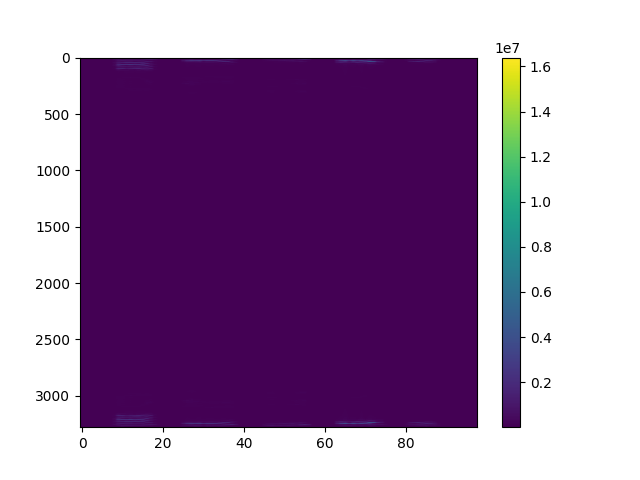
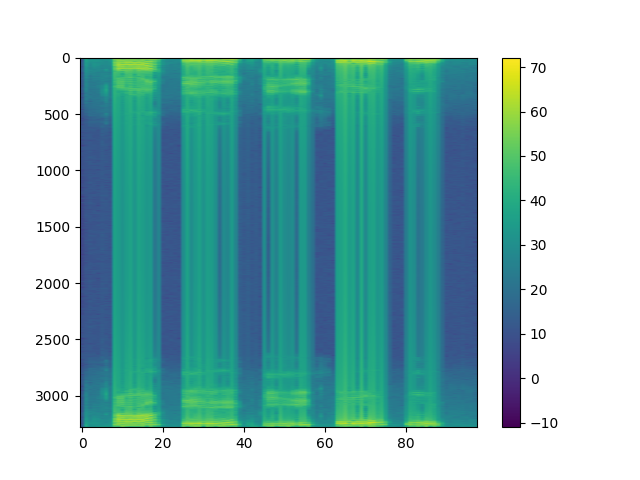
Add files via upload

diff --git a/Lab 4/ex6.py b/Lab 4/ex6.py
@@ -23,7 +23,7 @@ for g in grupuri:
 FFT_matr.pop(-1)
 FFT_matr.pop(0)
 print(np.array(FFT_matr).T.shape)
-plt.imshow(np.array(FFT_matr).T, aspect='auto')
+plt.imshow(10 * np.log10(np.array(FFT_matr).T), aspect='auto')
 plt.colorbar()
 plt.savefig("ex6.pdf")
 plt.savefig("ex6.png")
